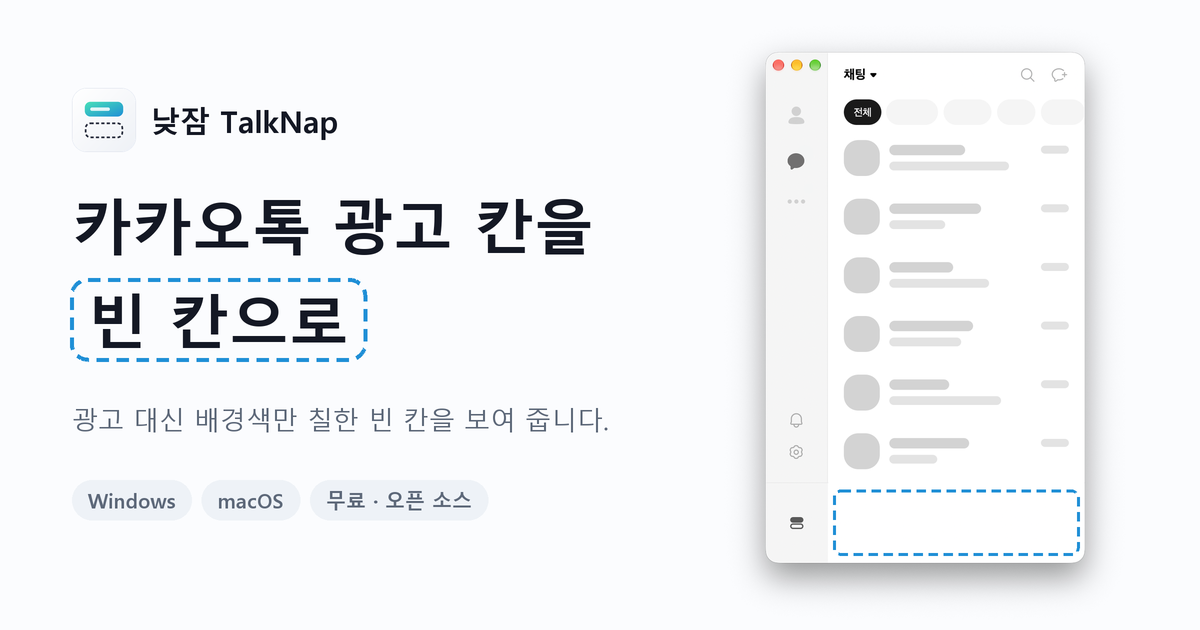
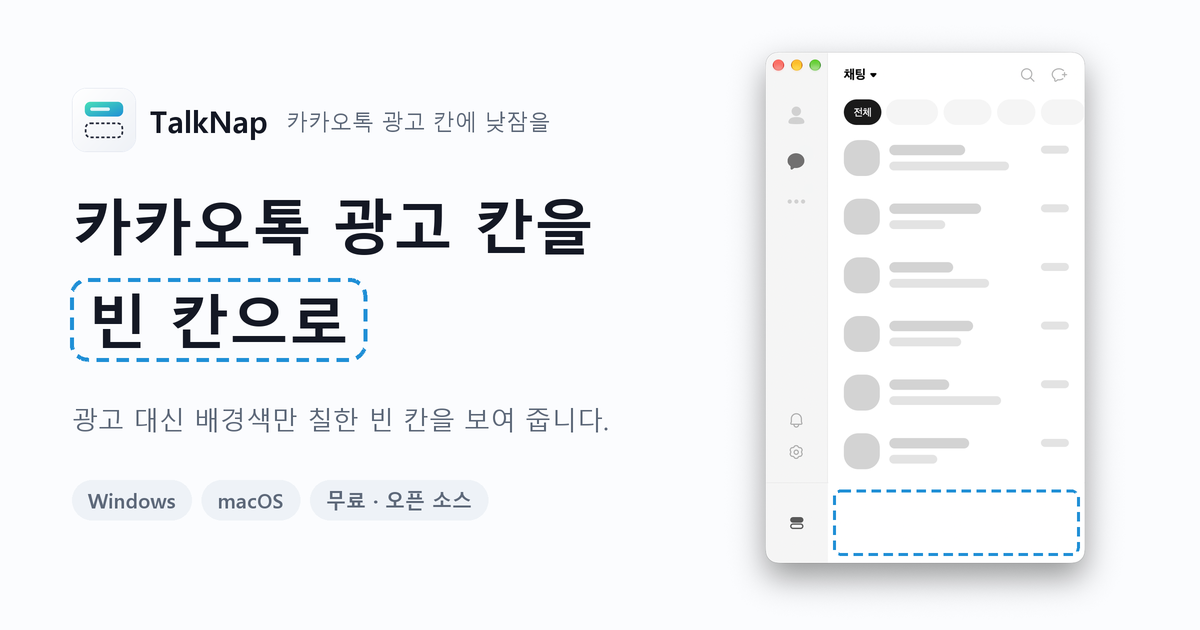
README·사이트: TalkNap 이름과 새 파일 이름
- README: 이름 TalkNap(소개 문구에만 "낮잠"), 새 설치 경로·인증서 이름·hosts 줄·파일 이름(TalkNap.exe, TalkNap.dmg), 옛 KakaoAdHide에서 옮겨 준다는 안내, 저장소 주소.
- site/index.html: 이름, 내려받기 링크(TalkNap.exe, TalkNap.dmg), 저장소 링크, og:url·og:image를 https://pandemoniummm.github.io/TalkNap/ 로.
- tools/site/og.py, site/og.png: 제목 TalkNap, 부제 "카카오톡 광고 칸에 낮잠을".
- assets/readme 배너: 제목 TalkNap.
- 릴리스 순서: 이 커밋은 내려받기 파일이 올라간 뒤(PR 합치기)에 사이트로 나가야 링크가 깨지지 않음.

Changed region(s): [[0.1233, 0.1508, 0.4625, 0.2111]]

diff --git a/site/index.html b/site/index.html
@@ -3,13 +3,13 @@
 <head>
 <meta charset="utf-8">
 <meta name="viewport" content="width=device-width, initial-scale=1">
-<title>낮잠 TalkNap · 카카오톡 광고 칸을 빈 칸으로</title>
+<title>TalkNap · 카카오톡 광고 칸을 빈 칸으로</title>
 <meta name="description" content="카카오톡 PC(Windows, macOS)의 광고 칸을 비우는 작은 프로그램">
 <meta property="og:type" content="website">
-<meta property="og:title" content="낮잠 TalkNap · 카카오톡 광고 칸을 빈 칸으로">
+<meta property="og:title" content="TalkNap · 카카오톡 광고 칸을 빈 칸으로">
 <meta property="og:description" content="카카오톡 PC 광고 대신 배경색만 칠한 빈 칸을 보여 줍니다. Windows · macOS, 무료">
-<meta property="og:url" content="https://pandemoniummm.github.io/KakaoAdHide/">
-<meta property="og:image" content="https://pandemoniummm.github.io/KakaoAdHide/og.png">
+<meta property="og:url" content="https://pandemoniummm.github.io/TalkNap/">
+<meta property="og:image" content="https://pandemoniummm.github.io/TalkNap/og.png">
 <meta property="og:image:width" content="1200">
 <meta property="og:image:height" content="630">
 <meta name="twitter:card" content="summary_large_image">
@@ -132,9 +132,9 @@
 <body class="after">
 <div class="wrap">
   <header>
-    <a class="name" href="./"><img src="icon.svg" alt="">낮잠</a>
+    <a class="name" href="./"><img src="icon.svg" alt="">TalkNap</a>
     <nav>
-      <a href="https://github.com/pandemoniummm/KakaoAdHide">GitHub</a>
+      <a href="https://github.com/pandemoniummm/TalkNap">GitHub</a>
       <button class="theme" id="theme" type="button" aria-label="어두운 화면으로">
         <svg class="moon" viewBox="0 0 24 24" aria-hidden="true"><path d="M20 14.5A8 8 0 0 1 9.5 4 8 8 0 1 0 20 14.5z"/></svg>
         <svg class="sun" viewBox="0 0 24 24" aria-hidden="true"><circle cx="12" cy="12" r="4"/><path d="M12 2.5v2M12 19.5v2M2.5 12h2M19.5 12h2M5.3 5.3l1.4 1.4M17.3 17.3l1.4 1.4M5.3 18.7l1.4-1.4M17.3 6.7l1.4-1.4"/></svg>
@@ -148,13 +148,13 @@
       <h1>카카오톡 광고 칸을<br><em>빈 칸으로</em></h1>
       <p class="lead">카카오톡 PC의 광고 대신 배경색만 칠한 빈 칸을 보여 줍니다.</p>
       <div class="cta">
-        <a class="btn primary" href="https://github.com/pandemoniummm/KakaoAdHide/releases/latest/download/KakaoAdHide-windows.exe">
+        <a class="btn primary" href="https://github.com/pandemoniummm/TalkNap/releases/latest/download/TalkNap.exe">
           <svg viewBox="0 0 24 24" aria-hidden="true"><path d="M0 3.4 9.8 2v9.5H0zM11 1.8 24 0v11.4H11zM0 12.5h9.8V22L0 20.6zM11 12.6h13V24l-13-1.8z"/></svg>
           Windows</a>
-        <a class="btn primary" href="https://github.com/pandemoniummm/KakaoAdHide/releases/latest/download/KakaoAdHide-macos.dmg">
+        <a class="btn primary" href="https://github.com/pandemoniummm/TalkNap/releases/latest/download/TalkNap.dmg">
           <svg viewBox="0 0 24 24" aria-hidden="true"><path d="M12.152 6.896c-.948 0-2.415-1.078-3.96-1.04-2.04.027-3.91 1.183-4.961 3.014-2.117 3.675-.546 9.103 1.519 12.09 1.013 1.454 2.208 3.09 3.792 3.039 1.52-.065 2.09-.987 3.935-.987 1.831 0 2.35.987 3.96.948 1.637-.026 2.676-1.48 3.676-2.948 1.156-1.688 1.636-3.325 1.662-3.415-.039-.013-3.182-1.221-3.22-4.857-.026-3.04 2.48-4.494 2.597-4.559-1.429-2.09-3.623-2.324-4.39-2.376-2-.156-3.675 1.09-4.61 1.09zM15.53 3.83c.843-1.012 1.4-2.427 1.245-3.83-1.207.052-2.662.805-3.532 1.818-.78.896-1.454 2.338-1.273 3.714 1.338.104 2.715-.688 3.559-1.701"/></svg>
           macOS</a>
-        <a class="btn secondary" href="https://github.com/pandemoniummm/KakaoAdHide#readme">README</a>
+        <a class="btn secondary" href="https://github.com/pandemoniummm/TalkNap#readme">README</a>
       </div>
       <p class="req" id="req">macOS 11 이상 · Apple Silicon, Intel</p>
     </div>
@@ -164,7 +164,7 @@
         <picture>
           <source srcset="kakaotalk-mac-dark.png" media="(prefers-color-scheme: dark)">
           <img src="kakaotalk-mac-light.png" width="1024" height="1504"
-               alt="낮잠을 켠 macOS 카카오톡. 아래 광고 칸이 비어 있습니다">
+               alt="TalkNap을 켠 macOS 카카오톡. 아래 광고 칸이 비어 있습니다">
         </picture>
         <!-- the same window with an ad (a drawn one, over KakaoTalk's own), laid over the picture above -->
         <picture class="shot-ad" aria-hidden="true">
@@ -175,7 +175,7 @@
         <div class="empty" aria-hidden="true"></div>
         <div class="switch" role="group" aria-label="보기">
           <button type="button" data-view="before" aria-pressed="false">광고</button>
-          <button type="button" data-view="after" aria-pressed="true">낮잠</button>
+          <button type="button" data-view="after" aria-pressed="true">TalkNap</button>
         </div>
       </div>
     </div>
@@ -188,7 +188,7 @@
 
   <footer>
     <span>비공식 프로젝트입니다. 카카오(Kakao Corp.)와 관련이 없습니다.</span>
-    <span><a href="https://github.com/pandemoniummm/KakaoAdHide">GitHub</a> · MIT 라이선스</span>
+    <span><a href="https://github.com/pandemoniummm/TalkNap">GitHub</a> · MIT 라이선스</span>
   </footer>
 </div>
 
@@ -240,7 +240,7 @@
   applyTheme();
 
   // which version the buttons give (they work without this)
-  fetch('https://api.github.com/repos/pandemoniummm/KakaoAdHide/releases/latest')
+  fetch('https://api.github.com/repos/pandemoniummm/TalkNap/releases/latest')
     .then(function (r) { return r.ok ? r.json() : null; })
     .then(function (j) {
       if (j && j.tag_name) document.getElementById('req').textContent =

diff --git a/tools/site/og.py b/tools/site/og.py
@@ -54,7 +54,8 @@ dashed_round_rect((x0,y0,x1,y1), 7*S, ACC, 3*S, 9*S, 6*S)
 # left: name, title, line
 icon = Image.open(f"{root}/site/icon-256.png").convert("RGBA").resize((64*S,64*S), Image.LANCZOS)
 img.paste(icon, (72*S, 88*S), icon)
-d.text((150*S, 120*S), "낮잠 TalkNap", font=bold(30), fill=TEXT, anchor="lm")
+d.text((150*S, 120*S), "TalkNap", font=bold(30), fill=TEXT, anchor="lm")
+d.text((150*S + d.textlength("TalkNap", font=bold(30)) + 18*S, 121*S), "카카오톡 광고 칸에 낮잠을", font=reg(22), fill=MUTED, anchor="lm")
 d.text((72*S, 250*S), "카카오톡 광고 칸을", font=bold(60), fill=TEXT, anchor="ls")
 t = "빈 칸으로"; f = bold(60)
 bx0, by0, bx1, by1 = d.textbbox((0,0), t, font=f)

diff --git a/README.md b/README.md
@@ -1,19 +1,20 @@
 <picture>
   <source media="(prefers-color-scheme: dark)" srcset="assets/readme/banner-dark.svg">
-  <img src="assets/readme/banner-light.svg" width="100%" alt="낮잠 TalkNap: 카카오톡 광고 칸을 빈 칸으로">
+  <img src="assets/readme/banner-light.svg" width="100%" alt="TalkNap: 카카오톡 광고 칸을 빈 칸으로">
 </picture>
 
-**낮잠**(TalkNap)은 카카오톡 PC(Windows, macOS)의 광고 배너를 비우는 작은 프로그램입니다. 예전 이름은 KakaoAdHide입니다.
+**TalkNap** — 카카오톡 광고 칸에 낮잠을.
+TalkNap은 카카오톡 PC(Windows, macOS)의 광고 배너를 비우는 작은 프로그램입니다. 예전 이름은 KakaoAdHide입니다.
 카카오톡이 광고를 받아 오는 요청을 이 컴퓨터 안에서 대신 받아, 광고 대신 **카카오톡 배경색만 칠한 빈 칸**을 돌려줍니다.
 
-[![최신 버전](https://img.shields.io/github/v/release/pandemoniummm/KakaoAdHide?style=flat-square&label=%EC%B5%9C%EC%8B%A0%20%EB%B2%84%EC%A0%84&color=1f8fd6)](../../releases/latest)
-[![빌드](https://img.shields.io/github/actions/workflow/status/pandemoniummm/KakaoAdHide/build.yml?branch=main&style=flat-square&label=%EB%B9%8C%EB%93%9C&logo=githubactions&logoColor=white)](../../actions/workflows/build.yml)
+[![최신 버전](https://img.shields.io/github/v/release/pandemoniummm/TalkNap?style=flat-square&label=%EC%B5%9C%EC%8B%A0%20%EB%B2%84%EC%A0%84&color=1f8fd6)](../../releases/latest)
+[![빌드](https://img.shields.io/github/actions/workflow/status/pandemoniummm/TalkNap/build.yml?branch=main&style=flat-square&label=%EB%B9%8C%EB%93%9C&logo=githubactions&logoColor=white)](../../actions/workflows/build.yml)
[1 lines of base64/hex data omitted]
 ![macOS](https://img.shields.io/badge/macOS-000000?style=flat-square&logo=apple&logoColor=white)
 ![Rust](https://img.shields.io/badge/Rust-B7410E?style=flat-square&logo=rust&logoColor=white)
 [![MIT](https://img.shields.io/badge/license-MIT-555555?style=flat-square)](LICENSE)
 
-**[다운로드](https://pandemoniummm.github.io/KakaoAdHide/)** · **[릴리스](../../releases/latest)** · **[동작 방식](#어떻게-동작하나요)** · **[무엇이 다른가요](#무엇이-다른가요)** · **[자주 묻는 질문](#자주-묻는-질문)** · **[앞으로](#앞으로)**
+**[다운로드](https://pandemoniummm.github.io/TalkNap/)** · **[릴리스](../../releases/latest)** · **[동작 방식](#어떻게-동작하나요)** · **[무엇이 다른가요](#무엇이-다른가요)** · **[자주 묻는 질문](#자주-묻는-질문)** · **[앞으로](#앞으로)**
 
 Windows (64비트) · macOS 11 이상 (Apple silicon, Intel)
 
@@ -27,10 +28,10 @@ Windows (64비트) · macOS 11 이상 (Apple silicon, Intel)
   </picture>
   <picture>
     <source media="(prefers-color-scheme: dark)" srcset="site/kakaotalk-mac-dark.png">
-    <img src="site/kakaotalk-mac-light.png" width="360" alt="낮잠으로 광고 칸을 비운 카카오톡">
+    <img src="site/kakaotalk-mac-light.png" width="360" alt="TalkNap으로 광고 칸을 비운 카카오톡">
   </picture>
   <br>
-  <sub>왼쪽: 원래 카카오톡 · 오른쪽: 낮잠을 켠 카카오톡 (macOS)</sub>
+  <sub>왼쪽: 원래 카카오톡 · 오른쪽: TalkNap을 켠 카카오톡 (macOS)</sub>
 </p>
 
 ## 기능
@@ -53,28 +54,30 @@ Windows (64비트) · macOS 11 이상 (Apple silicon, Intel)
 <details>
 <summary><b>Windows</b></summary>
 
-1. [다운로드 페이지](https://pandemoniummm.github.io/KakaoAdHide/)나 [Releases](../../releases/latest)에서 `KakaoAdHide-windows.exe`를 받아 실행합니다.
+1. [다운로드 페이지](https://pandemoniummm.github.io/TalkNap/)나 [Releases](../../releases/latest)에서 `TalkNap.exe`를 받아 실행합니다.
 2. 설정 안내가 뜨면 **설정하기** → 인증서 설치 확인 창에서 **예** → 사용자 계정 컨트롤 창에서 **예**.
-3. 설치가 끝나면 낮잠이 카카오톡을 켭니다(이미 켜져 있으면 그대로).
+3. 설치가 끝나면 TalkNap이 카카오톡을 켭니다(이미 켜져 있으면 그대로).
+
+예전 KakaoAdHide(낮잠)를 쓰고 있었다면, 업데이트나 설치 때 TalkNap이 옛 프로그램 파일, 바로가기, 설정, 인증서, hosts 줄을 새 이름으로 옮기고 옛것을 지웁니다.
 
 > **처음 실행할 때**: **"Windows의 PC 보호"** 창이 뜨면 **추가 정보 → 실행**을 누르세요. 코드 서명을 하지 않은 프로그램이라 뜨는 경고입니다.
 
-카카오톡 자체 자동 실행 설정은 건드리지 않습니다. 로그인할 때 카카오톡이 낮잠보다 먼저 켜지면, 몇 분 동안 내장 배너가 보였다가 빈 칸으로 바뀝니다.
+카카오톡 자체 자동 실행 설정은 건드리지 않습니다. 로그인할 때 카카오톡이 TalkNap보다 먼저 켜지면, 몇 분 동안 내장 배너가 보였다가 빈 칸으로 바뀝니다.
 
-**사용**: 카카오톡 빈 칸 왼쪽, 사이드바 아래의 **낮잠 버튼**을 누르면 메뉴가 열립니다(트레이 아이콘 메뉴와 같습니다).
-메뉴: 카카오톡 다시 시작, 업데이트 확인, 업데이트 자동 확인, 낮잠 제거, 종료
+**사용**: 카카오톡 빈 칸 왼쪽, 사이드바 아래의 **TalkNap 버튼**을 누르면 메뉴가 열립니다(트레이 아이콘 메뉴와 같습니다).
+메뉴: 카카오톡 다시 시작, 업데이트 확인, 업데이트 자동 확인, TalkNap 제거, 종료
 
 <details>
 <summary>설치하면 바뀌는 것</summary>
 
 | 항목 | 내용 |
 |---|---|
-| `%LOCALAPPDATA%\KakaoAdHide\` | 프로그램 파일과 인증서 |
-| 시작 프로그램 폴더의 `KakaoAdHide.lnk` | 로그인할 때 실행 |
-| 현재 사용자의 신뢰할 수 있는 루트 인증서 | `KakaoAdHide local ad server` (광고 주소 두 개 전용) |
-| `C:\Windows\System32\drivers\etc\hosts` | `# KakaoAdHide begin` ~ `# KakaoAdHide end` 사이의 두 줄 |
-| `HKCU\Software\KakaoAdHide` | 설정 |
-| 설정 > 앱 > 설치된 앱 | `낮잠 (카카오톡 광고 칸 비우기)` 항목 |
+| `%LOCALAPPDATA%\TalkNap\` | 프로그램 파일과 인증서 |
+| 시작 프로그램 폴더의 `TalkNap.lnk` | 로그인할 때 실행 |
+| 현재 사용자의 신뢰할 수 있는 루트 인증서 | `TalkNap local ad server` (광고 주소 두 개 전용) |
+| `C:\Windows\System32\drivers\etc\hosts` | `# TalkNap begin` ~ `# TalkNap end` 사이의 두 줄 |
+| `HKCU\Software\TalkNap` | 설정 |
+| 설정 > 앱 > 설치된 앱 | `TalkNap (카카오톡 광고 칸 비우기)` 항목 |
 
 </details>
 
@@ -82,18 +85,18 @@ Windows (64비트) · macOS 11 이상 (Apple silicon, Intel)
 <summary>제거, 명령줄</summary>
 
 다음 중 하나로 지웁니다. hosts 줄, 인증서, 설정을 모두 지우고 원래대로 되돌립니다.
-- **설정 > 앱 > 설치된 앱 > 낮잠 > 제거**
-- 낮잠 메뉴의 **낮잠 제거…**
+- **설정 > 앱 > 설치된 앱 > TalkNap > 제거**
+- TalkNap 메뉴의 **TalkNap 제거…**
 - PowerShell:
   ```powershell
-  & "$env:LOCALAPPDATA\KakaoAdHide\KakaoAdHide.exe" --uninstall
+  & "$env:LOCALAPPDATA\TalkNap\TalkNap.exe" --uninstall
   ```
 
 | 명령 | 동작 |
 |---|---|
-| `KakaoAdHide-windows.exe` (받은 파일) | 설치 후 실행 |
-| `KakaoAdHide.exe --uninstall` | 제거 |
-| `KakaoAdHide.exe --update` | 지금 업데이트 확인(새 버전이 있으면 검증 후 설치) |
+| `TalkNap.exe` (받은 파일) | 설치 후 실행 |
+| `TalkNap.exe --uninstall` | 제거 |
+| `TalkNap.exe --update` | 지금 업데이트 확인(새 버전이 있으면 검증 후 설치) |
 | `--quiet` | 설치, 제거할 때 안내 창을 띄우지 않음 |
 
 </details>
@@ -103,29 +106,31 @@ Windows (64비트) · macOS 11 이상 (Apple silicon, Intel)
 <details>
 <summary><b>macOS</b></summary>
 
-1. [다운로드 페이지](https://pandemoniummm.github.io/KakaoAdHide/)나 [Releases](../../releases/latest)에서 `KakaoAdHide-macos.dmg`를 받아 열고, `KakaoAdHide`를 `Applications`로 끌어다 놓습니다.
-2. 응용 프로그램 폴더에서 KakaoAdHide를 실행합니다(앱 파일 이름은 예전 이름 그대로입니다).
+1. [다운로드 페이지](https://pandemoniummm.github.io/TalkNap/)나 [Releases](../../releases/latest)에서 `TalkNap.dmg`를 받아 열고, `TalkNap`을 `Applications`로 끌어다 놓습니다.
+2. 응용 프로그램 폴더에서 TalkNap을 실행합니다.
 3. 설정 안내에서 **설정하기** → 인증서 신뢰 변경에 **Mac 로그인 암호** → hosts 변경에 **관리자 암호**.
 
-> **처음 실행할 때**: **"Apple은 'KakaoAdHide'에 악성 코드가 없음을 확인할 수 없습니다"** 창이 뜨면 **완료**를 누르고, **시스템 설정 > 개인정보 보호 및 보안** 아래쪽의 **그래도 열기**를 누른 뒤 다시 실행합니다. Apple 유료 개발자 서명(공증)을 하지 않은 앱이라 처음 한 번 뜨는 경고입니다.
+> **처음 실행할 때**: **"Apple은 'TalkNap'에 악성 코드가 없음을 확인할 수 없습니다"** 창이 뜨면 **완료**를 누르고, **시스템 설정 > 개인정보 보호 및 보안** 아래쪽의 **그래도 열기**를 누른 뒤 다시 실행합니다. Apple 유료 개발자 서명(공증)을 하지 않은 앱이라 처음 한 번 뜨는 경고입니다.
 
-카카오톡이 낮잠보다 먼저 켜지면, 카카오톡이 광고를 다시 요청할 때까지 내장 배너가 보일 수 있습니다. 메뉴의 **카카오톡 다시 시작**을 누르면 바로 비워집니다.
+카카오톡이 TalkNap보다 먼저 켜지면, 카카오톡이 광고를 다시 요청할 때까지 내장 배너가 보일 수 있습니다. 메뉴의 **카카오톡 다시 시작**을 누르면 바로 비워집니다.
 
 **사용**: 카카오톡 빈 칸 왼쪽 버튼이나 메뉴 막대 아이콘으로 메뉴를 엽니다.
-메뉴: 카카오톡 다시 시작, 업데이트 확인, 업데이트 자동 확인, 로그인할 때 실행, 낮잠 제거, 종료
+메뉴: 카카오톡 다시 시작, 업데이트 확인, 업데이트 자동 확인, 로그인할 때 실행, TalkNap 제거, 종료
+
+예전 KakaoAdHide(낮잠)를 쓰고 있었다면, 업데이트 때 TalkNap이 옛 앱, 로그인 항목, 설정, 인증서, hosts 줄을 새 이름으로 옮기고 옛것을 지웁니다.
 
 <details>
 <summary>설치하면 바뀌는 것, 제거</summary>
 
 | 항목 | 내용 |
 |---|---|
-| `/Applications/KakaoAdHide.app` | 프로그램 (쓸 수 없으면 `~/Applications`) |
-| `~/Library/LaunchAgents/io.github.pandemoniummm.KakaoAdHide.plist` | 로그인할 때 실행 (메뉴에서 끌 수 있음) |
-| 로그인 키체인 | `KakaoAdHide local ad server` 인증서 (SSL에만 신뢰, 광고 주소 두 개 전용) |
-| `/etc/hosts` | `# KakaoAdHide begin` ~ `# KakaoAdHide end` 사이의 두 줄 |
-| `~/Library/Application Support/KakaoAdHide/` | 설정과 인증서 |
+| `/Applications/TalkNap.app` | 프로그램 (쓸 수 없으면 `~/Applications`) |
+| `~/Library/LaunchAgents/io.github.pandemoniummm.TalkNap.plist` | 로그인할 때 실행 (메뉴에서 끌 수 있음) |
+| 로그인 키체인 | `TalkNap local ad server` 인증서 (SSL에만 신뢰, 광고 주소 두 개 전용) |
+| `/etc/hosts` | `# TalkNap begin` ~ `# TalkNap end` 사이의 두 줄 |
+| `~/Library/Application Support/TalkNap/` | 설정과 인증서 |
 
-제거: 메뉴 > **낮잠 제거…** (hosts 줄, 인증서, 로그인 항목, 설정을 지우고 앱을 휴지통으로 옮깁니다)
+제거: 메뉴 > **TalkNap 제거…** (hosts 줄, 인증서, 로그인 항목, 설정을 지우고 앱을 휴지통으로 옮깁니다)
 
 </details>
 
@@ -133,12 +138,12 @@ Windows (64비트) · macOS 11 이상 (Apple silicon, Intel)
 
 ## 어떻게 동작하나요?
 
-카카오톡은 광고를 띄우기 전에 광고 서버(`serv.ds.kakao.com`)에 "띄울 광고를 달라"고 묻습니다. 낮잠은 이 질문이 카카오 서버 대신 **이 컴퓨터로 오게 하고**, 광고 대신 빈 칸을 돌려줍니다. 카카오톡은 받은 빈 칸을 원래 광고 자리에 직접 그립니다.
+카카오톡은 광고를 띄우기 전에 광고 서버(`serv.ds.kakao.com`)에 "띄울 광고를 달라"고 묻습니다. TalkNap은 이 질문이 카카오 서버 대신 **이 컴퓨터로 오게 하고**, 광고 대신 빈 칸을 돌려줍니다. 카카오톡은 받은 빈 칸을 원래 광고 자리에 직접 그립니다.
 
 ```mermaid
 flowchart LR
   K["카카오톡<br>광고 요청"] --> H{"hosts 파일"}
-  H -->|"127.0.0.1"| A["낮잠<br>(이 컴퓨터)"]
+  H -->|"127.0.0.1"| A["TalkNap<br>(이 컴퓨터)"]
   A -->|"빈 칸"| B["카카오톡<br>광고 자리"]
   H -. "원래는" .-> S[("카카오 광고 서버")]
   classDef app fill:#1f8fd6,stroke:#1f8fd6,color:#ffffff
@@ -149,11 +154,11 @@ flowchart LR
 
 ## 무엇이 다른가요?
 
-광고 칸을 없애는 방법은 여러 가지입니다. 낮잠은 카카오톡이 받는 **광고 내용**을 바꾸고, 창에는 손대지 않습니다.
+광고 칸을 없애는 방법은 여러 가지입니다. TalkNap은 카카오톡이 받는 **광고 내용**을 바꾸고, 창에는 손대지 않습니다.
 
 | 방식 | 창을 옮기거나 크기를 바꿀 때 | 카카오톡이 업데이트되면 | 광고 요청 |
 |---|---|---|---|
-| **빈 광고를 대신 돌려주기** (낮잠) | 카카오톡이 직접 그려서 어긋나지 않음 | 광고 주소나 응답 형식이 바뀔 때만 손봄 | 이 컴퓨터 안에서 끝남 |
+| **빈 광고를 대신 돌려주기** (TalkNap) | 카카오톡이 직접 그려서 어긋나지 않음 | 광고 주소나 응답 형식이 바뀔 때만 손봄 | 이 컴퓨터 안에서 끝남 |
 | 카카오톡 창 안쪽을 늘려 광고 칸 덮기 | 바뀔 때마다 다시 맞춰야 함 | 창 구조가 바뀌면 깨짐 | 그대로 나감 |
 | 광고 칸 위에 다른 창 덮기 | 창을 따라다니느라 늦거나 어긋날 수 있음 | 대체로 그대로 | 그대로 나감 |
 | 카카오톡 실행 파일 고치기 | 깔끔함 | 업데이트마다 다시 고쳐야 함 | 방식에 따라 다름 |
@@ -166,7 +171,7 @@ flowchart LR
   - 카카오톡 광고 주소 두 개(`serv.ds.kakao.com`, `display.ad.daum.net`)에만 쓸 수 있고, 다른 인증서를 발급할 수 없는 종류(CA 아님)입니다.
   - 개인키는 이 컴퓨터를 떠나지 않습니다(현재 사용자만 읽을 수 있는 파일).
 - **hosts 파일**: 두 광고 주소를 이 컴퓨터(127.0.0.1)로 보내는 줄을 넣습니다. 관리자 권한이 필요합니다.
-- **로컬 서버**: 낮잠이 443 포트에서 **이 컴퓨터에서 온 연결만** 받아, 광고 요청에는 빈 광고를, 그 밖의 요청에는 빈 응답을 돌려줍니다.
+- **로컬 서버**: TalkNap이 443 포트에서 **이 컴퓨터에서 온 연결만** 받아, 광고 요청에는 빈 광고를, 그 밖의 요청에는 빈 응답을 돌려줍니다.
 
 > [!IMPORTANT]
 > 인증서는 광고 주소 두 개에만 쓸 수 있습니다. 개인키가 새더라도 은행·메일 같은 다른 사이트를 위조할 수는 없고, 카카오톡 광고 칸에 다른 내용을 띄우는 정도만 가능합니다.
@@ -174,10 +179,10 @@ flowchart LR
 그 밖에:
 
 - **밖으로 보내는 것이 없음**: 이 컴퓨터 밖으로 보내는 요청은 업데이트 확인뿐입니다([업데이트](#업데이트)).
-- **빈 광고에는 짧은 스크립트만**: 광고 칸을 칠하고, 메뉴 버튼을 그리고, **이 컴퓨터의 낮잠**하고만 신호를 주고받습니다. 외부 요청이 없는지는 테스트로 확인합니다. 신호에는 설치할 때 만든 무작위 값이 붙어서, 다른 웹 페이지가 흉내 낼 수 없습니다.
+- **빈 광고에는 짧은 스크립트만**: 광고 칸을 칠하고, 메뉴 버튼을 그리고, **이 컴퓨터의 TalkNap**하고만 신호를 주고받습니다. 외부 요청이 없는지는 테스트로 확인합니다. 신호에는 설치할 때 만든 무작위 값이 붙어서, 다른 웹 페이지가 흉내 낼 수 없습니다.
 - **공개 소스**: 릴리스 파일은 GitHub Actions가 이 저장소의 소스로 만듭니다. 받은 파일이 Releases의 파일과 같은지는 함께 올린 `SHA256SUMS.txt`로 확인할 수 있습니다.
   ```powershell
-  Get-FileHash .\KakaoAdHide-windows.exe -Algorithm SHA256
+  Get-FileHash .\TalkNap.exe -Algorithm SHA256
   ```
 
 ## 자주 묻는 질문
@@ -185,7 +190,7 @@ flowchart LR
 **다음(Daum) 같은 웹사이트 광고도 사라지나요?**
 카카오 애드핏 광고(다음 등에서 쓰는 카카오 광고)는 같은 주소를 써서 함께 안 보입니다. 구글 광고처럼 다른 회사 광고는 그대로입니다. Chrome은 이때 "로컬 네트워크 액세스" 권한을 물을 수 있는데, 허용하지 않아도 됩니다.
 
-**낮잠을 끄면 어떻게 되나요?**
+**TalkNap을 끄면 어떻게 되나요?**
 카카오톡 내장 배너가 뜰 뿐, 다른 인터넷 통신에는 영향이 없습니다.
 
 **백신이 hosts 파일을 되돌렸어요.**
@@ -199,7 +204,7 @@ flowchart LR
 
 ## 업데이트
 
-- 실행 1분 뒤, 그 뒤로 하루 한 번 GitHub의 최신 릴리스를 확인합니다. 요청에는 `User-Agent: KakaoAdHide/<버전>` 말고 아무 정보도 담지 않습니다. GitHub에는 접속 IP가 남습니다.
+- 실행 1분 뒤, 그 뒤로 하루 한 번 GitHub의 최신 릴리스를 확인합니다. 요청에는 `User-Agent: TalkNap/<버전>` 말고 아무 정보도 담지 않습니다. GitHub에는 접속 IP가 남습니다.
 - 새 버전이 있으면 알려 줍니다. **업데이트를 고르기 전에는 아무것도 받지 않습니다.**
 - 받은 파일은 아래를 모두 확인한 뒤에만 설치합니다. 하나라도 맞지 않으면 설치하지 않고 릴리스 페이지를 안내합니다.
   - 다운로드 주소가 이 저장소의 Releases인지
